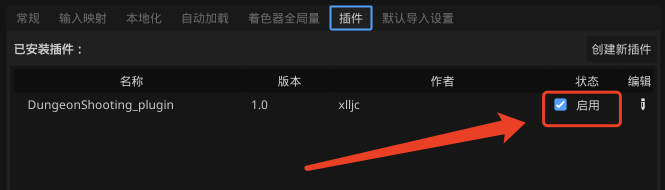
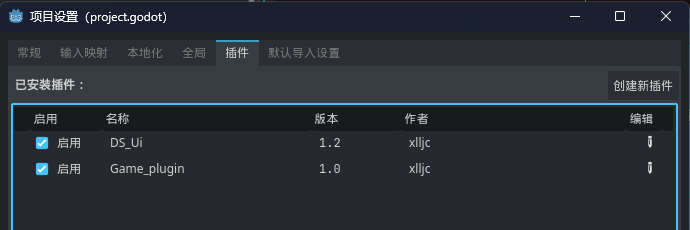
更新readme

diff --git a/README.md b/README.md
@@ -1,73 +1,60 @@
+## A dungeon shooting game developed with Godot
 
-## 一款由Godot开发的地牢射击类型的游戏
+**Godot version:** `4.4 mono`
+**.Net version:** `9.0`
 
-**Godot版本:** `4.2.1 mono`  
-**.Net版本:** `8.0`
-
----
-### 游戏定义
-
-**游戏名称:**《枪火地牢》  
-**英文名称:**《Gunfire Dungeon》  
-**美术风格:** 2D像素(完美像素)  
-**游戏标签:** Roguelite, 俯视角, 地牢探索, 双摇杆射击  
-**参考游戏:** 《挺进地牢》, 《元气骑士》, 《废土之王》  
-**核心简介:** 游戏整体流程由数层地牢组成, 每层又由数个房间组成, 每个房间有一堵门隔开, 玩家每进入一个房间, 需要清理房间内所有的敌人, 方可离开和进入下一个房间,
-玩家需要在这些房间中探索, 战斗, 收集掉落的道具和被动, 一步步成长, 击败boss, 进入下一层, 如此往复, 直到击败最后一层boss即可通关.
-但本作与市面上常规地牢射击游戏不同的是, 玩家与敌人共用武器资源, 玩家击败敌人便可拾起敌人的武器, 并且更加注重环境互动要素  
-**游戏背景:** 构思中
-
-**游戏内置了一个功能强大的地图编辑器, 方便玩家自己制作地图和分享地图**
+**English** | [**中文简体**](./README-zh.md)
 
 ---
-### 预览图
-##### 游戏中  
-![gif](DungeonShooting_Document/文档资源/preview_gif.gif)  
-![png](DungeonShooting_Document/文档资源/preview1.png)  
-##### 地图编辑器  
-房间管理器  
-![png](DungeonShooting_Document/文档资源/preview2.png)  
-房间地形编辑  
-![png](DungeonShooting_Document/文档资源/preview3_gif.gif)  
-房间装饰编辑  
-![png](DungeonShooting_Document/文档资源/preview2_gif.gif)  
-房间预设编辑
-![png](DungeonShooting_Document/文档资源/preview3.png)
+### Game Definition
+
+**Game name:** *Gunfire Dungeon*
+**English name:** *Gunfire Dungeon*
+**Art style:** 2D pixel
+**Game tags:** Roguelite, top-down view, dungeon exploration, dual-stick shooting
+**Reference games:** *Enter the Gungeon*, *Noita*
+**Core introduction:** The overall game process consists of several layers of dungeons, with each layer composed of several rooms. Each room is separated by a door. Every time the player enters a room, they need to eliminate all the enemies in the room before they can leave and enter the next room. The player needs to explore and fight in these rooms, collect dropped items and passive abilities, gradually grow stronger, defeat the boss, and enter the next layer. This cycle repeats until the player defeats the boss on the last layer to complete the game.
+**Game background:** Under conception
+
+**The game comes with a powerful map editor, which allows players to create their own maps and share them easily.**
 
 ---
-### 启动项目
+### Preview Images
+##### In-game
+![gif](GunfireDungeon_Document/文档资源/preview_gif.gif)
+![png](GunfireDungeon_Document/文档资源/preview1.png)
 
-git仓库的目录结构如下
-> ├ DungeonShooting_Document (更新日志相关的目录)  
-> └ DungeonShooting_Godot (Godot工程目录)
-
-
-
-请确保安装了`.net8`和`godot mono4.2.1`
-
-godot下载地址: https://godotengine.org/download
-
-.net8下载地址: https://dotnet.microsoft.com/zh-cn/download/dotnet/8.0
-
-
-
-使用GodotMono版打开`DungeonShooting_Godot/project.godot`
-
-
-
-**注意**: 如果是第一次打开项目会弹出以下提示
-
-![png](DungeonShooting_Document/文档资源/tip.png)
-
-这是因为项目没有编译过, 点击Godot右上角`build`, 然后打`开项目设置`, 在`插件`这一个页签下启用`DungeonShooting_plugin`这个插件
-
-![png](DungeonShooting_Document/文档资源/setting.png)
-
-最后重启编辑器, 项目就可以正常运行了
+##### Map Editor
+Room Manager
+![png](GunfireDungeon_Document/文档资源/preview2.png)
+Room Terrain Editing
+![png](GunfireDungeon_Document/文档资源/preview3_gif.gif)
+Room Decoration Editing
+![png](GunfireDungeon_Document/文档资源/preview2_gif.gif)
+Room Preset Editing
+![png](GunfireDungeon_Document/文档资源/preview3.png)
 
 ---
-### 其他
+### Starting the Project
 
-**开发日志:** [开发日志.md](DungeonShooting_Document/开发日志.md)  
-**哔哩哔哩:** https://space.bilibili.com/259437820  
-**项目Ui插件:** https://github.com/xlljc/Ds_Ui
+The directory structure of the Git repository is as follows:
+> ├ GunfireDungeon_Document (Directory related to update logs) 
+> └ GunfireDungeon_Godot (Godot project directory)
+
+Please ensure that you have installed `.net9` and `godot mono4.4`.
+
+Godot download link: https://godotengine.org/download
+.net9 download link: https://dotnet.microsoft.com/en-us/download/dotnet/9.0
+
+Open `GunfireDungeon_Godot/project.godot` using the Mono version of Godot.
+
+And when opening it for the first time, please enable these two plugins:
+
+![setting.png](GunfireDungeon_Document/文档资源/setting.png)
+
+---
+### Other Information
+
+**Development log:** [DevelopmentLog.md](GunfireDungeon_Document/开发日志.md) 
+**Bilibili channel:** https://space.bilibili.com/259437820 
+**Project UI plugin:** https://github.com/xlljc/Ds_Ui

diff --git a/GunfireDungeon_Document/开发日志.md b/GunfireDungeon_Document/开发日志.md
@@ -43,8 +43,8 @@
 
 ---
 ### 2024-2-25
-游戏暂定名为《枪火地牢》  
-项目从4.2升级到4.2.1, 本次更新大量内容, 地牢编辑器2.0, 游戏大厅, 奖励房间, 自定义地牢生成规则, 地牢装饰等, 所以开发周期来到了两个半月  
+游戏暂定名为《枪火地牢》
+项目从4.2升级到4.2.1, 本次更新大量内容, 地牢编辑器2.0, 游戏大厅, 奖励房间, 自定义地牢生成规则, 地牢装饰等, 所以开发周期来到了两个半月
 主要工作内容如下:
 
 * 地牢编辑器2.0正式支持47格Tile的平铺地形, 完整的新增功能: 
@@ -124,8 +124,8 @@
 
 ---
 ### 2023-10-20
-项目从Godot4.1升级到4.2beta, 使用了部分新功能以提升视觉效果, 本月主要完善`Role`的动作和提升地牢视觉效果, 项目已正式开源  
-将项目的Ui框架抽成一个单独的Ui插件, 命名为`DsUi`  
+项目从Godot4.1升级到4.2beta, 使用了部分新功能以提升视觉效果, 本月主要完善`Role`的动作和提升地牢视觉效果, 项目已正式开源
+将项目的Ui框架抽成一个单独的Ui插件, 命名为`DsUi`
 近一个半月主要工作内容如下:
 * 项目已经开启2Dhdr, 也就是辉光效果, 现在子弹, 开火特效等都有了高光效果
 * 敌人子弹添加红色描边, 更加容易区分敌方子弹
@@ -178,7 +178,7 @@
 
 ---
 ### 2023-06-21
-本轮主要更改美术素材和添加音效, 并且使用excel作为项目配置表, 添加完整的游戏开始与结束流程  
+本轮主要更改美术素材和添加音效, 并且使用excel作为项目配置表, 添加完整的游戏开始与结束流程
 主要工作内容如下:
 * 完成简易且完整的游戏流程, 添加主菜单, 加载, 和结算页面, 主菜单包括`开始游戏`, `设置`, `结束游戏`三个按钮, 点击`开始游戏`进入加载页面, 加载完成后进入地牢. 当玩家死亡后跳出结算页面, 结算页面包含`重新开始`和`回到主菜单`的按钮
 * 优化渲染大量静态`Sprite`, 实现类为`ImageCanvas.cs`, 原理是将`Texture2D`的纹理数据绘制到另一张`Image`上, 并使用`Sprite2D`来渲染这张`Image`, 这样只需要调用一次渲染API就可以永久保存纹理数据, 为了防止同一帧突然添加大量渲染的图片导致处理时间过长, 这里引入了一个渲染队列机制, 如果渲染时间超过阈值时间, 后面的图片就放到下一帧渲染, 以确保游戏能稳定60帧运行
@@ -250,8 +250,9 @@
 
 ---
 ### 2023-02-15
-第一篇开发日志, 后面会更加频繁更新日志  
+第一篇开发日志, 后面会更加频繁更新日志 
 用了大半年事件完成完成项目基础架构搭建, 已经包含的功能有:
+
 * 所有物体的父物体为`ActivityObject`, 可以在编辑器中找到节点`ActivityObjectTemplate`来快速创建物体模板
 * 玩家, 敌人的基础移动, 拾起/扔掉武器, 武器袋存放武器, 切换武器, 手持武器开火, 换弹, 
 * 武器类别有近战/远程武器, 武器由属性类控制

diff --git a/README-zh.md b/README-zh.md
@@ -1,0 +1,69 @@
+
+## 一款由Godot开发的地牢射击类型的游戏
+
+**Godot版本：** `4.4 mono`
+**.Net版本：** `9.0`
+
+[**English**](./README.md) | **中文简体**
+
+---
+### 游戏定义
+
+**游戏名称：**《枪火地牢》
+**英文名称：**《Gunfire Dungeon》
+**美术风格：** 2D像素
+**游戏标签：** Roguelite，俯视角，地牢探索，双摇杆射击
+**参考游戏：** 《挺进地牢》，《Noita》
+**核心简介：** 游戏整体流程由数层地牢组成，每层又由数个房间组成，每个房间有一堵门隔开，玩家每进入一个房间，需要清理房间内所有的敌人，方可离开和进入下一个房间,
+玩家需要在这些房间中探索，战斗，收集掉落的道具和被动，一步步成长，击败boss，进入下一层，如此往复，直到击败最后一层boss即可通关.
+**游戏背景：** 构思中
+
+**游戏内置了一个功能强大的地图编辑器，方便玩家自己制作地图和分享地图**
+
+---
+### 预览图
+##### 游戏中
+![gif](GunfireDungeon_Document/文档资源/preview_gif.gif)
+![png](GunfireDungeon_Document/文档资源/preview1.png)
+
+##### 地图编辑器
+房间管理器
+![png](GunfireDungeon_Document/文档资源/preview2.png)
+房间地形编辑
+![png](GunfireDungeon_Document/文档资源/preview3_gif.gif)
+房间装饰编辑
+![png](GunfireDungeon_Document/文档资源/preview2_gif.gif)
+房间预设编辑
+![png](GunfireDungeon_Document/文档资源/preview3.png)
+
+---
+### 启动项目
+
+git仓库的目录结构如下
+> ├ GunfireDungeon_Document (更新日志相关的目录) 
+> └ GunfireDungeon_Godot (Godot工程目录)
+
+
+
+请确保安装了`.net9`和`godot mono4.4`
+
+godot下载地址：https：//godotengine.org/download
+
+.net9下载地址：https：//dotnet.microsoft.com/zh-cn/download/dotnet/9.0
+
+
+
+使用GodotMono版打开`GunfireDungeon_Godot/project.godot`
+
+并且第一次打开请启用这两个插件：
+
+![setting.png](GunfireDungeon_Document/文档资源/setting.png)
+
+
+
+---
+### 其他
+
+**开发日志：** [开发日志.md](GunfireDungeon_Document/开发日志.md) 
+**哔哩哔哩：** https：//space.bilibili.com/259437820 
+**项目Ui插件：** https：//github.com/xlljc/Ds_Ui
